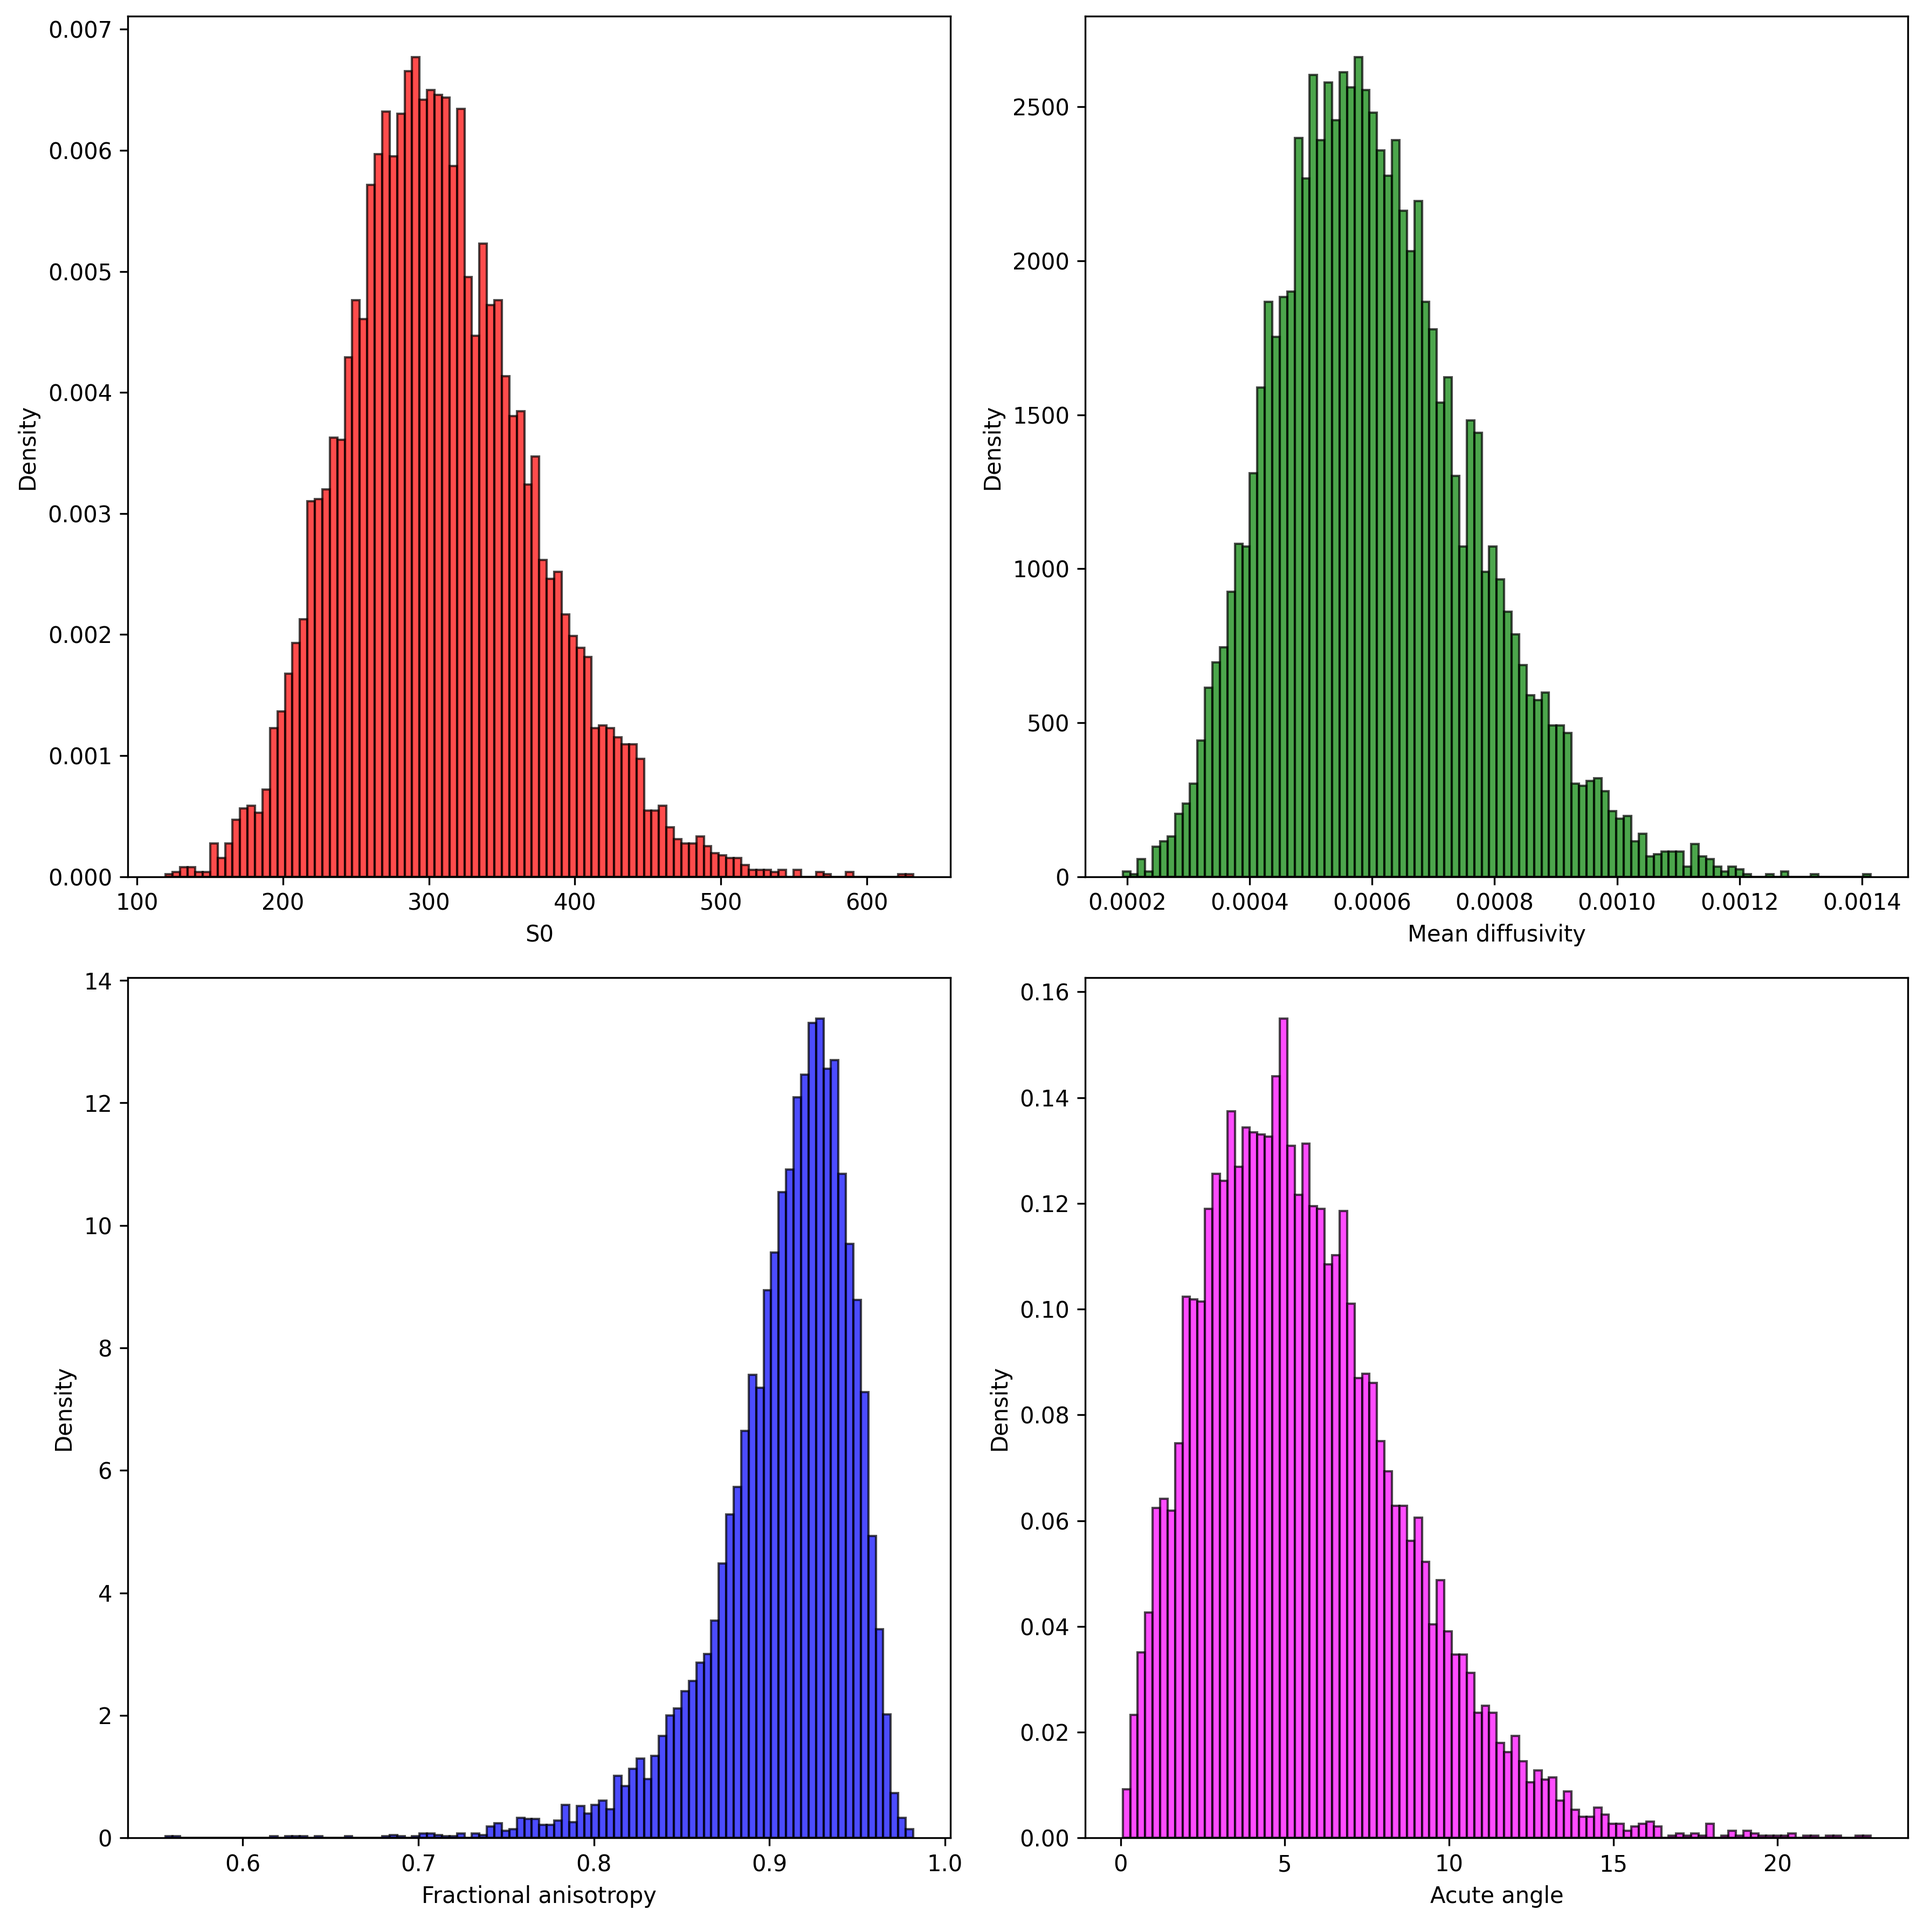
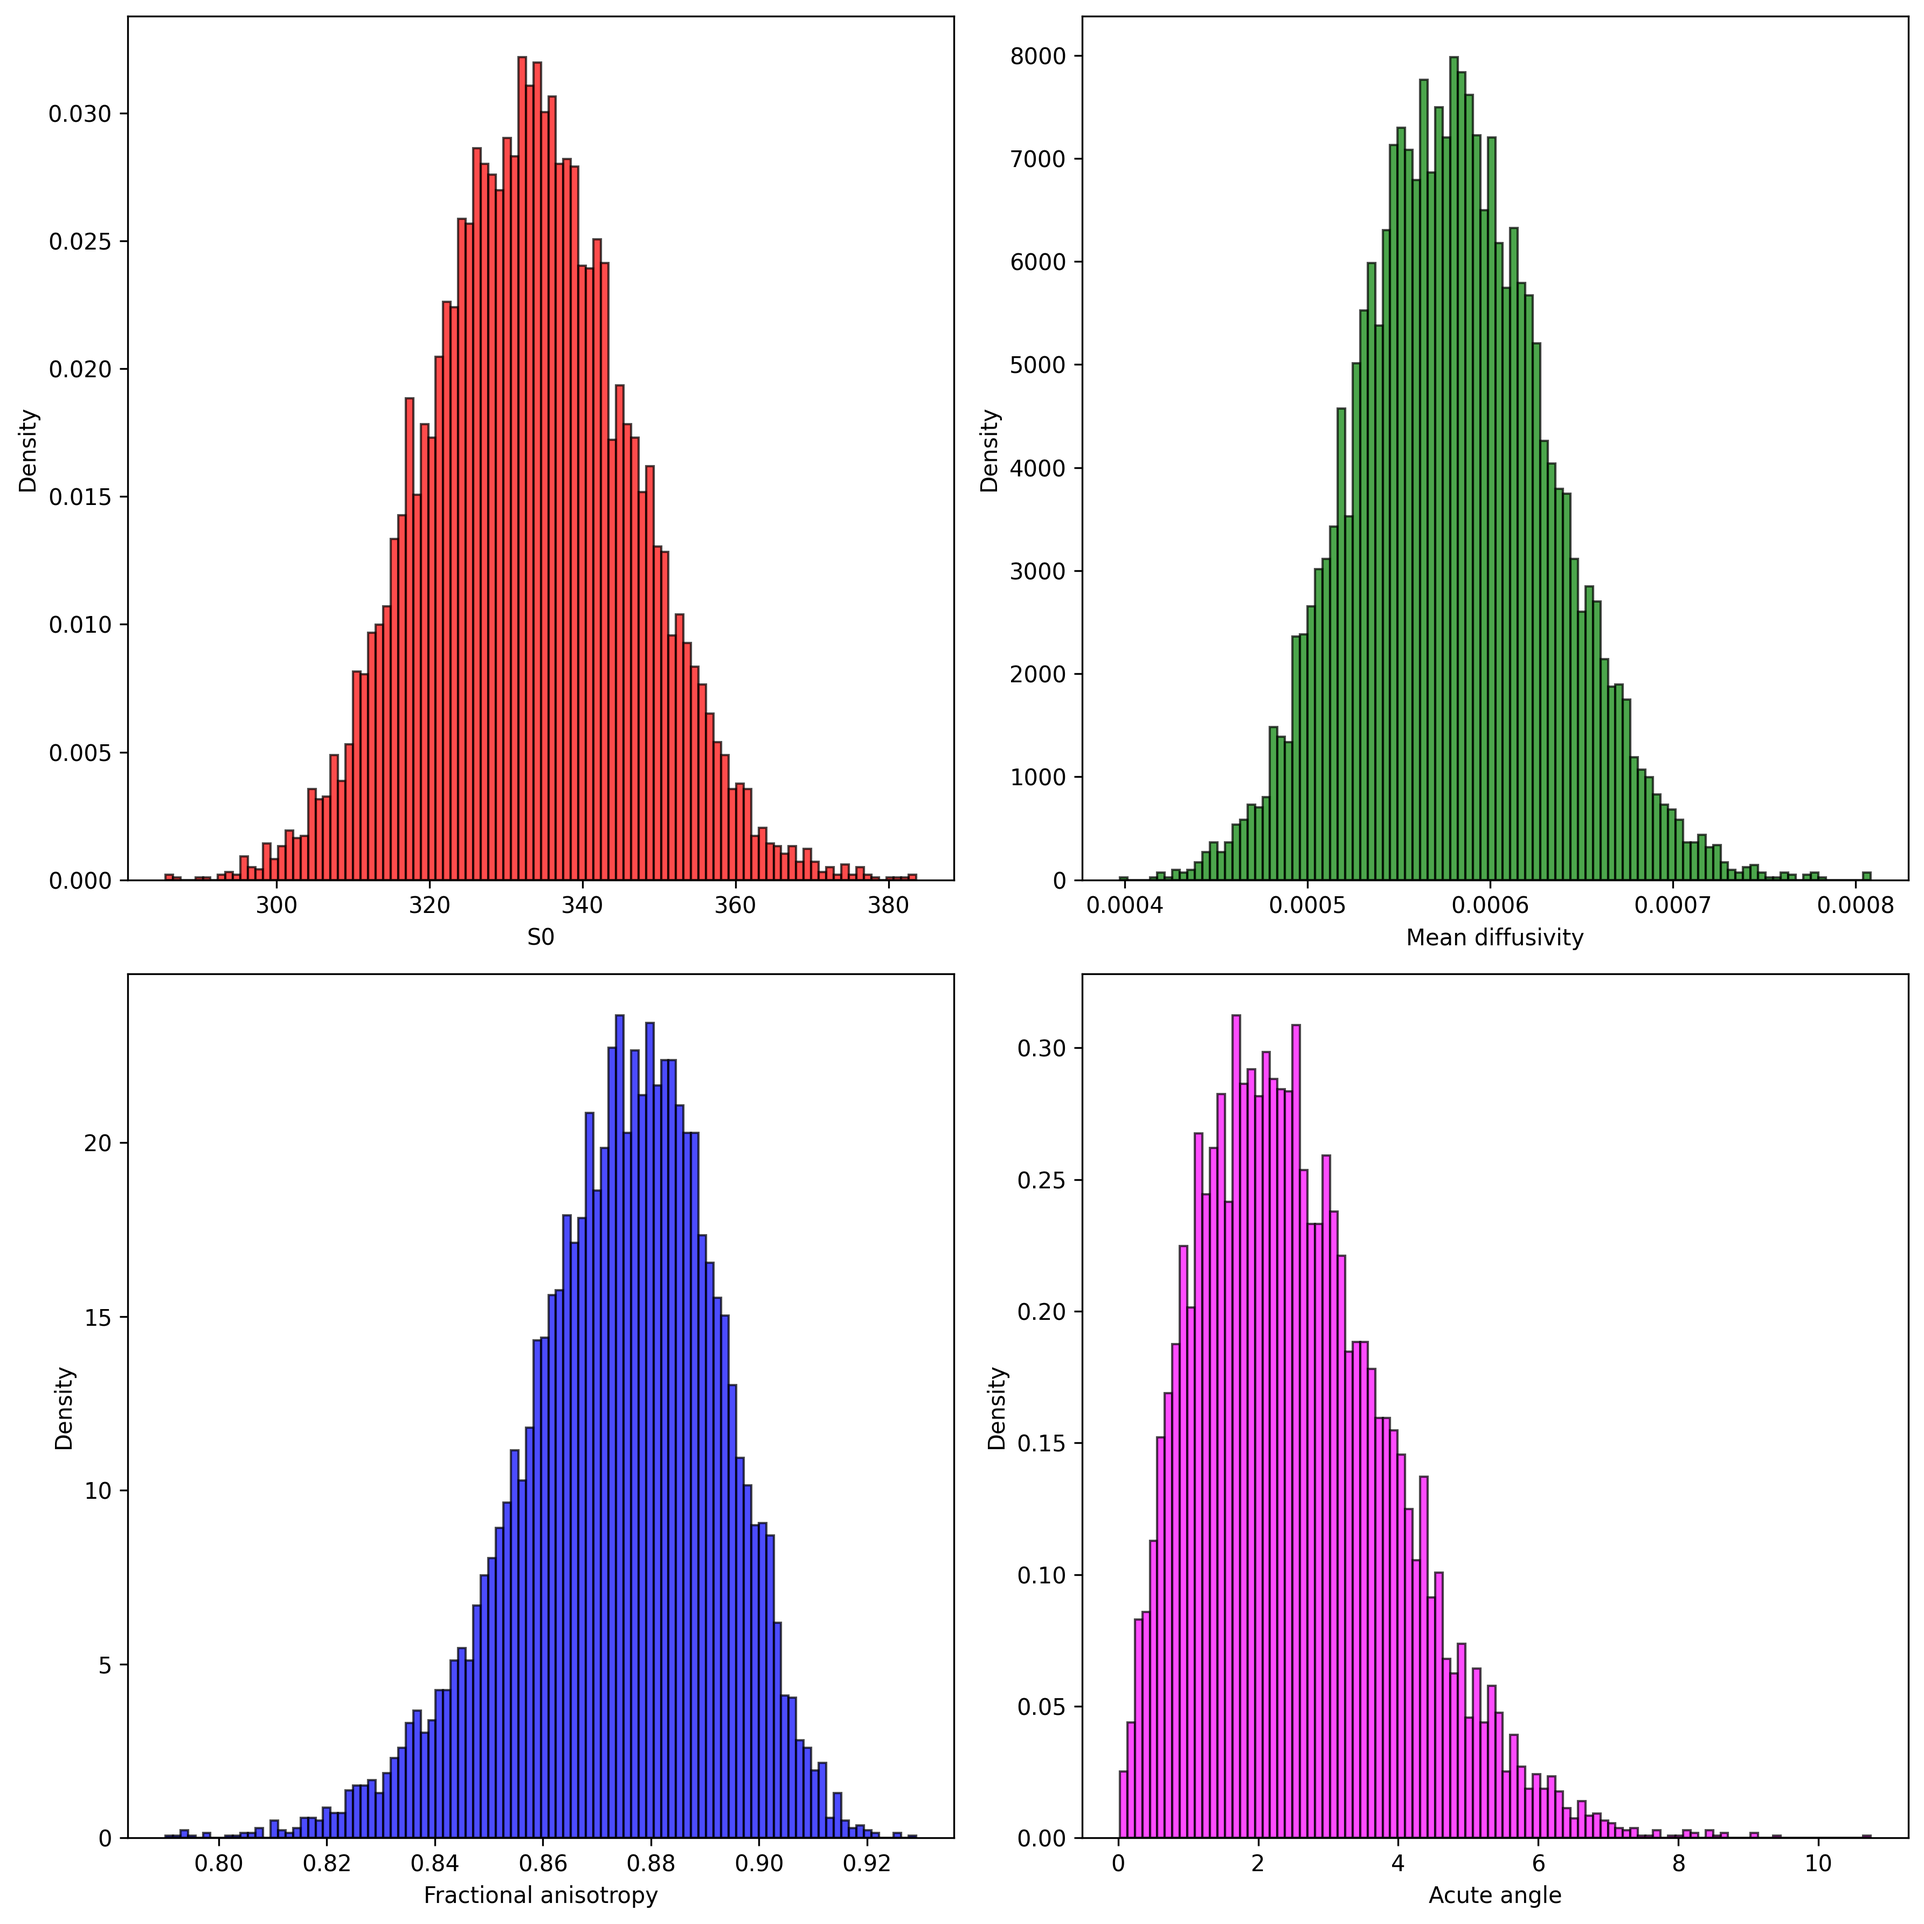
i hope this is final

diff --git a/dmri_project.py b/dmri_project.py
@@ -842,7 +842,12 @@ def main():
     plot_results(S0_is, evals_is, evecs_is, evec_principal, weights=w_is, method="is")
 
     # Run Variational Inference and plot results
-    posterior_vi = variational_inference(force_recompute=True)
+    posterior_vi = variational_inference(
+        max_iters=50000,
+        K=100,
+        learning_rate=1e-3,
+        force_recompute=True
+    )
     S0_vi, evals_vi, evecs_vi = posterior_vi.rvs(size=n_samples)
     plot_results(S0_vi, evals_vi, evecs_vi, evec_principal, method="vi")
 
